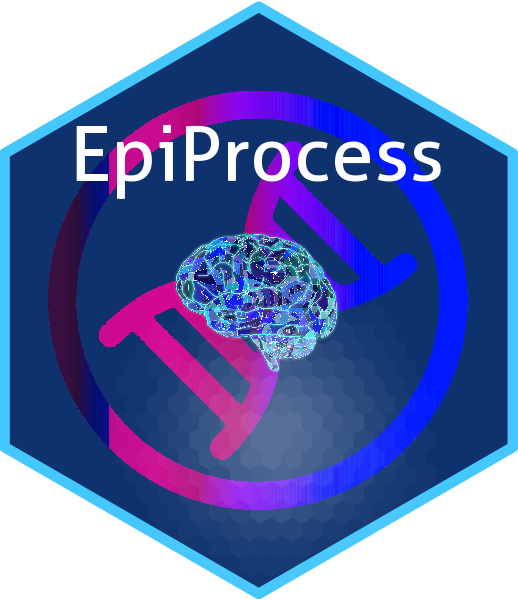
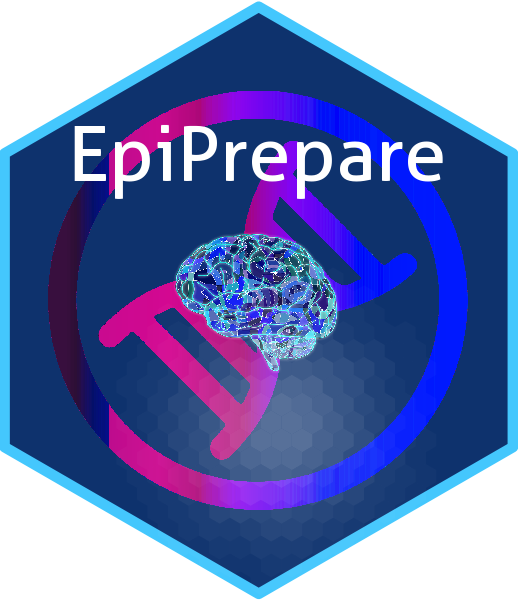
First commit as EpiPrepare

Changed region(s): [[0.2162, 0.21, 0.8649, 0.33], [0.1236, 0.21, 0.1544, 0.3]]

diff --git a/README.md b/README.md
@@ -1,25 +1,25 @@
-<img src='https://github.com/neurogenomics/EpiProcess/raw/master/inst/hex/hex.png' height='300'><br><br>
-[![](https://img.shields.io/badge/devel%20version-0.99.0-black.svg)](https://github.com/neurogenomics/EpiProcess)
+<img src='https://github.com/neurogenomics/EpiPrepare/raw/master/inst/hex/hex.png' height='300'><br><br>
+[![](https://img.shields.io/badge/devel%20version-0.99.0-black.svg)](https://github.com/neurogenomics/EpiPrepare)
 [![R build
-status](https://github.com/neurogenomics/EpiProcess/workflows/R-CMD-check-bioc/badge.svg)](https://github.com/neurogenomics/EpiProcess/actions)
-[![](https://img.shields.io/github/last-commit/neurogenomics/EpiProcess.svg)](https://github.com/neurogenomics/EpiProcess/commits/master)
-[![](https://codecov.io/gh/neurogenomics/EpiProcess/branch/master/graph/badge.svg)](https://codecov.io/gh/neurogenomics/EpiProcess)
+status](https://github.com/neurogenomics/EpiPrepare/workflows/R-CMD-check-bioc/badge.svg)](https://github.com/neurogenomics/EpiPrepare/actions)
+[![](https://img.shields.io/github/last-commit/neurogenomics/EpiPrepare.svg)](https://github.com/neurogenomics/EpiPrepare/commits/master)
+[![](https://codecov.io/gh/neurogenomics/EpiPrepare/branch/master/graph/badge.svg)](https://codecov.io/gh/neurogenomics/EpiPrepare)
 [![License:
 GPL-3](https://img.shields.io/badge/license-GPL--3-blue.svg)](https://cran.r-project.org/web/licenses/GPL-3)
 <h4>
 Authors: <i>Brian Schilder, Leyla Abbasova</i>
 </h4>
 <h4>
-README updated: <i>Mar-09-2022</i>
+README updated: <i>Mar-10-2022</i>
 </h4>
 
 <!-- To modify Package/Title/Description/Authors fields, edit the DESCRIPTION file -->
 
-## `EpiProcess`: packageTitle
+## `EpiPrepare`: Preprocess epigenomic data for downstream analysis
 
-### packageDescription.
+### Preprocess epigenomic data for downstream analysis.
 
-If you use `EpiProcess`, please cite:
+If you use `EpiPrepare`, please cite:
 
 <!-- Modify this my editing the file: inst/CITATION  -->
 
@@ -31,15 +31,15 @@ If you use `EpiProcess`, please cite:
 ``` r
 if(!require("remotes")) install.packages("remotes")
 
-remotes::install_github("https://github.com/neurogenomics/EpiProcess")
-library(EpiProcess)
+remotes::install_github("https://github.com/neurogenomics/EpiPrepare")
+library(EpiPrepare)
 ```
 
 ## Documentation
 
-### [Website](https://neurogenomics.github.io/EpiProcess)
+### [Website](https://neurogenomics.github.io/EpiPrepare)
 
-### [Getting started](https://neurogenomics.github.io/EpiProcess/articles/EpiProcess)
+### [Getting started](https://neurogenomics.github.io/EpiPrepare/articles/EpiPrepare)
 
 <hr>
 
